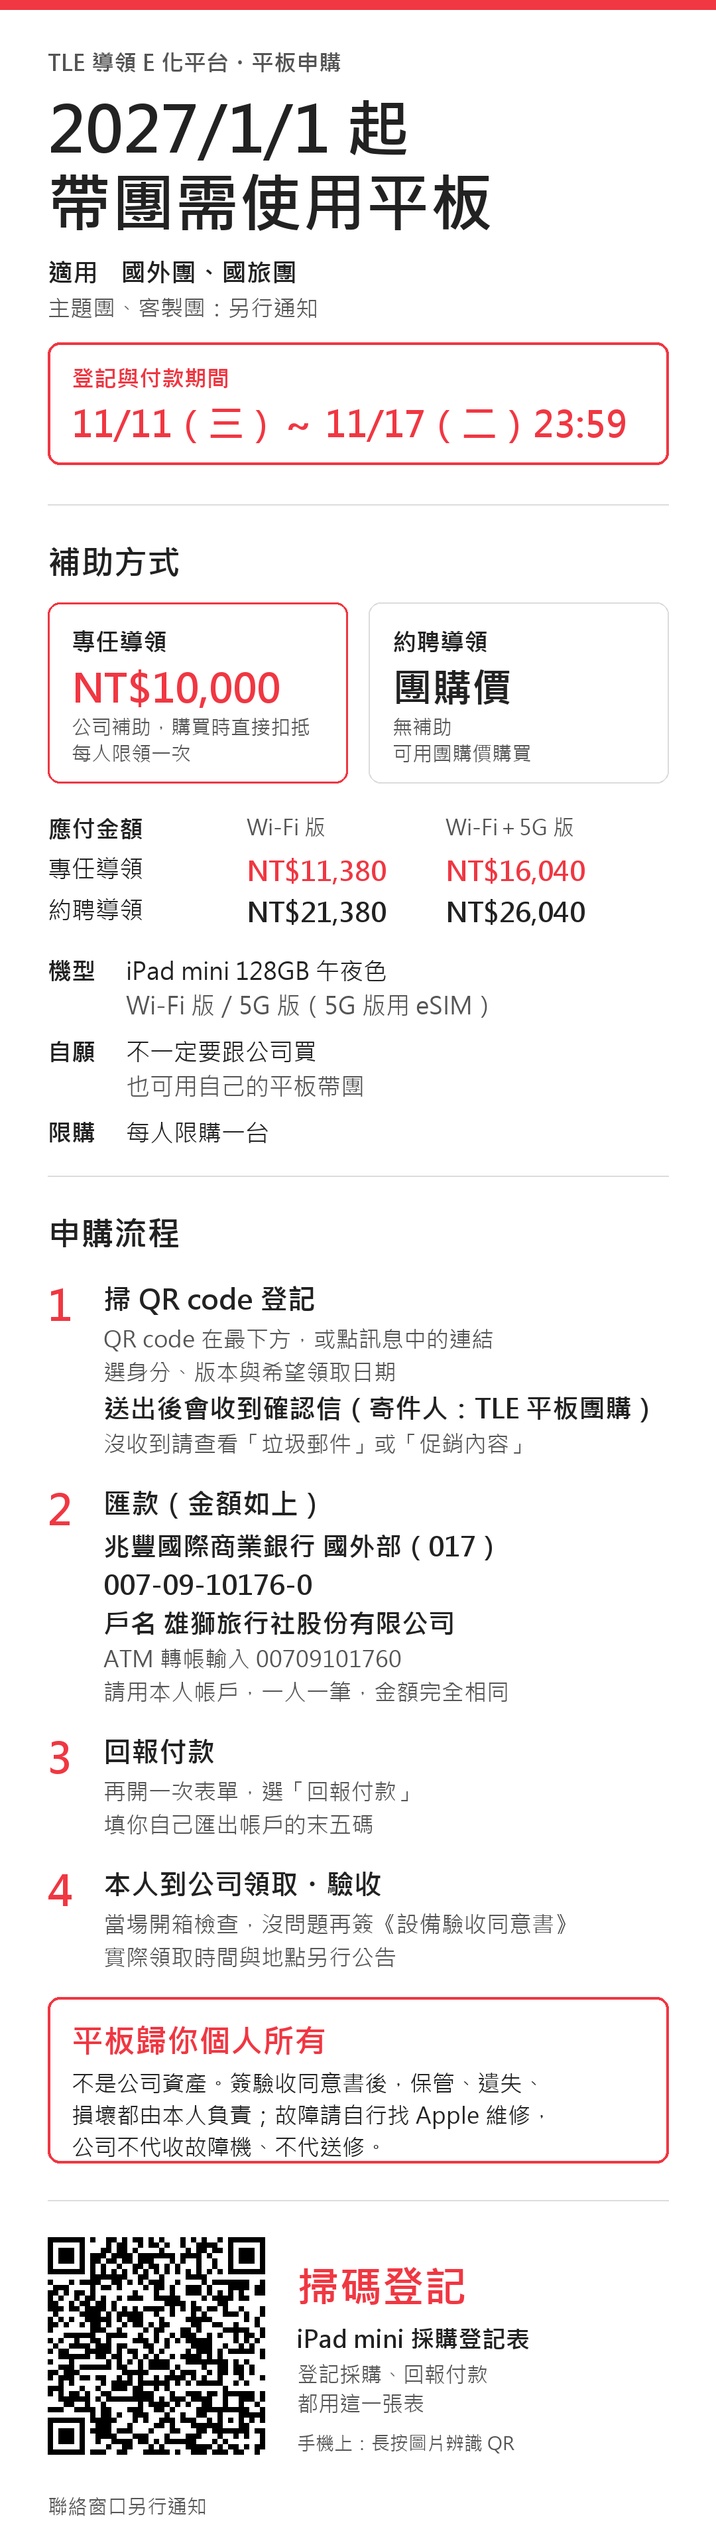
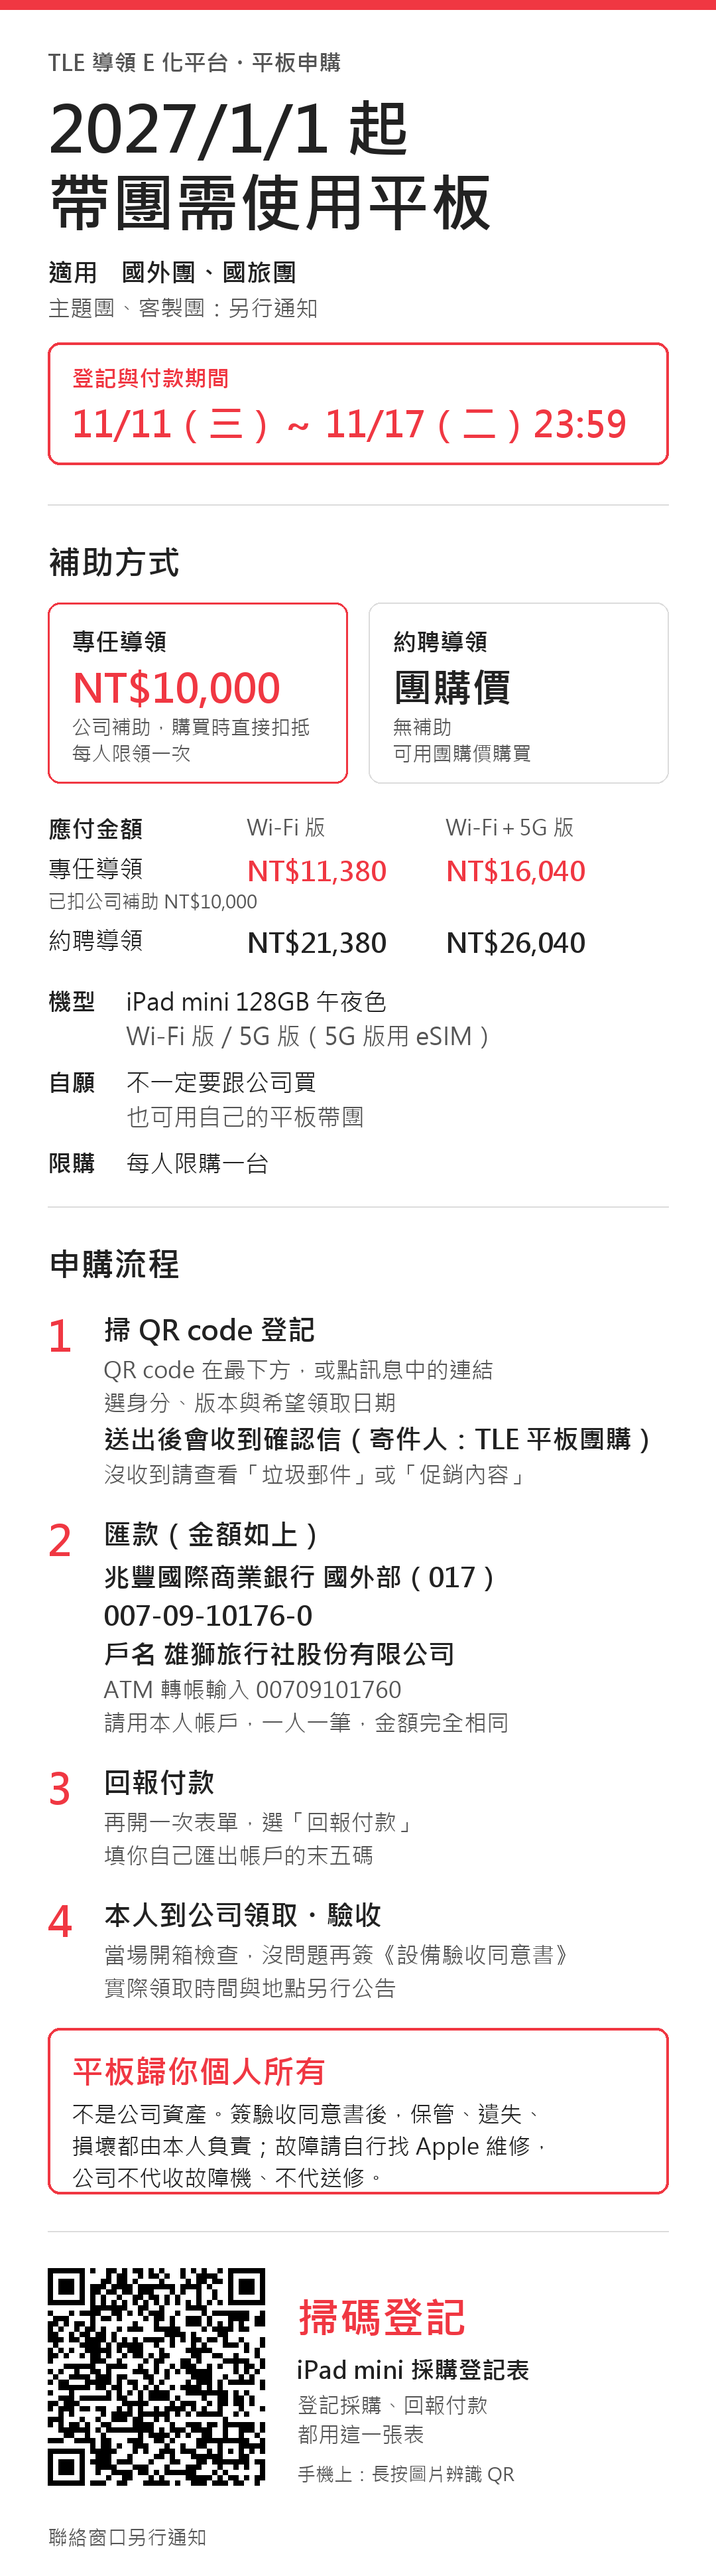
Update notice files 2026-11-12

diff --git a/index.html b/index.html
@@ -128,7 +128,7 @@ section { display: flex; flex-direction: column; gap: 14px; }
 
 公司統一團購 iPad mini（128GB 午夜色，Wi-Fi／Wi-Fi＋5G 版）：
 ・專任導領：公司補助 NT$10,000，購買時直接扣抵，每人限領一次
-　應付 Wi-Fi 版 NT$11,380／Wi-Fi＋5G 版 NT$16,040
+　應付 Wi-Fi 版 NT$11,380／Wi-Fi＋5G 版 NT$16,040（已扣公司補助 NT$10,000）
 ・約聘導領：無補助，可用團購價購買
 　應付 Wi-Fi 版 NT$21,380／Wi-Fi＋5G 版 NT$26,040
 ・採自願制，也可用自己的平板帶團；每人限購一台
@@ -197,12 +197,12 @@ https://hoyinzlionwork-cmd.github.io/tablet-notice/
           <div class="meta">PNG・手機直式，可直接轉傳 LINE</div>
         </div>
         <div class="row">
-          <a class="btn" href="leader-flyer.png?v=202611111800" target="_blank" rel="noopener">開啟圖片</a>
-          <a class="btn" href="leader-flyer.png?v=202611111800" download="領隊平板申購說明.png">下載圖片</a>
+          <a class="btn" href="leader-flyer.png?v=202611121010" target="_blank" rel="noopener">開啟圖片</a>
+          <a class="btn" href="leader-flyer.png?v=202611121010" download="領隊平板申購說明.png">下載圖片</a>
         </div>
       </div>
     </div>
-        <img class="flyer" src="leader-flyer.png?v=202611111800" alt="領隊平板申購說明圖預覽" loading="lazy">
+        <img class="flyer" src="leader-flyer.png?v=202611121010" alt="領隊平板申購說明圖預覽" loading="lazy">
   </section>
 </div>
 
